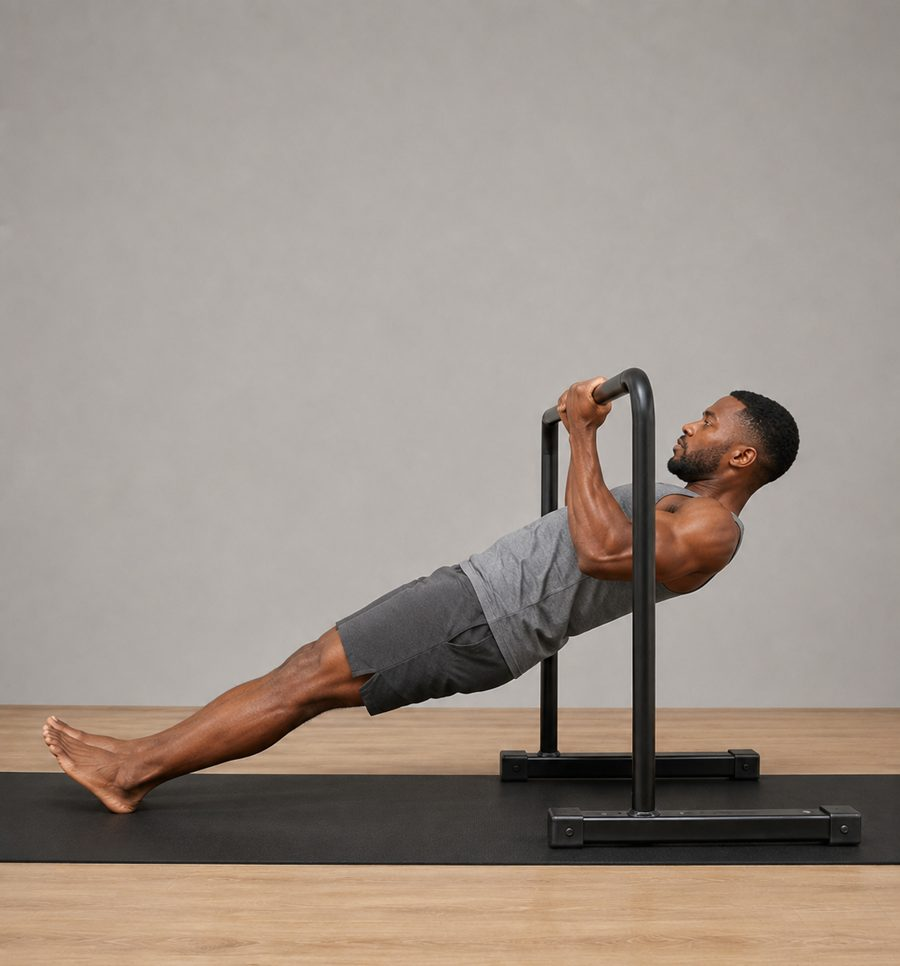
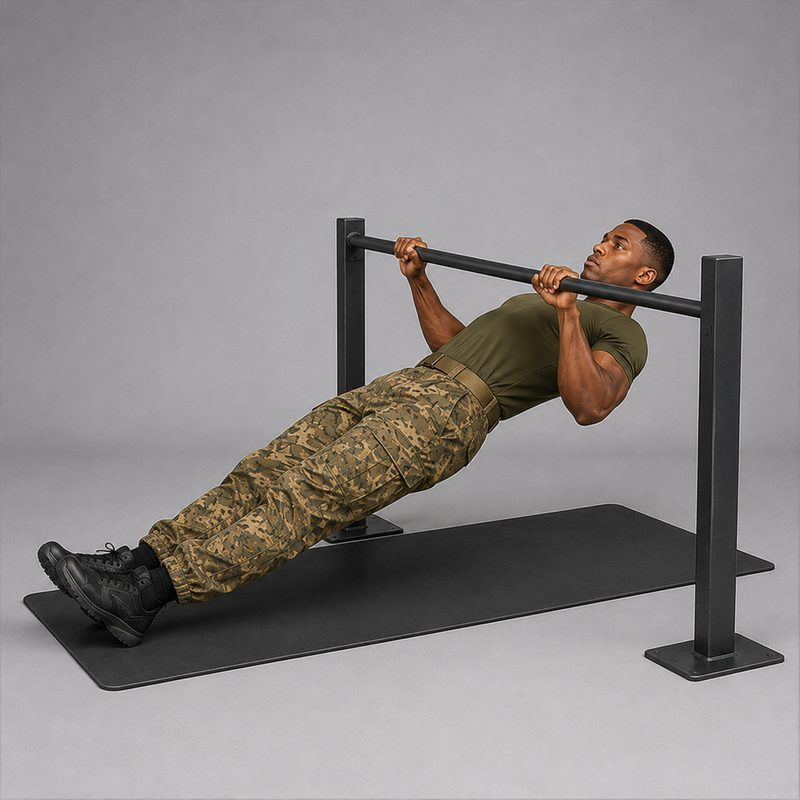
Convert Batch 6 (pull/back + arms library) to military fatigues (#72)
Regenerate the pulling, back and arm exercise photos into the military-fatigues
standard (OD-green tee, camo trousers, same athlete): dead hang, scapular
pull-up, negative pull-up, chin-up, wide pull-up, inverted row, feet-elevated
row, bench dip, close-grip push-up and split squat.

Bump SW cache to v63 so clients refetch the overwritten images.

Claude-Session: https://claude.ai/code/session_012pSaigMvmiPH3HEpchsLug

diff --git a/sw.js b/sw.js
@@ -1,5 +1,5 @@
 /* CoreForge — offline service worker */
-const CACHE = 'coreforge-v62';
+const CACHE = 'coreforge-v63';
 const SHELL = ['./', './index.html', './manifest.webmanifest', './icon-192.png', './icon-512.png', './hero.jpg',
   './ex-kneeplank.jpg','./ex-plank.jpg','./ex-longplank.jpg','./ex-planktap.jpg',
   './ex-tuckhollow.jpg','./ex-hollow.jpg','./ex-hollowrock.jpg',
